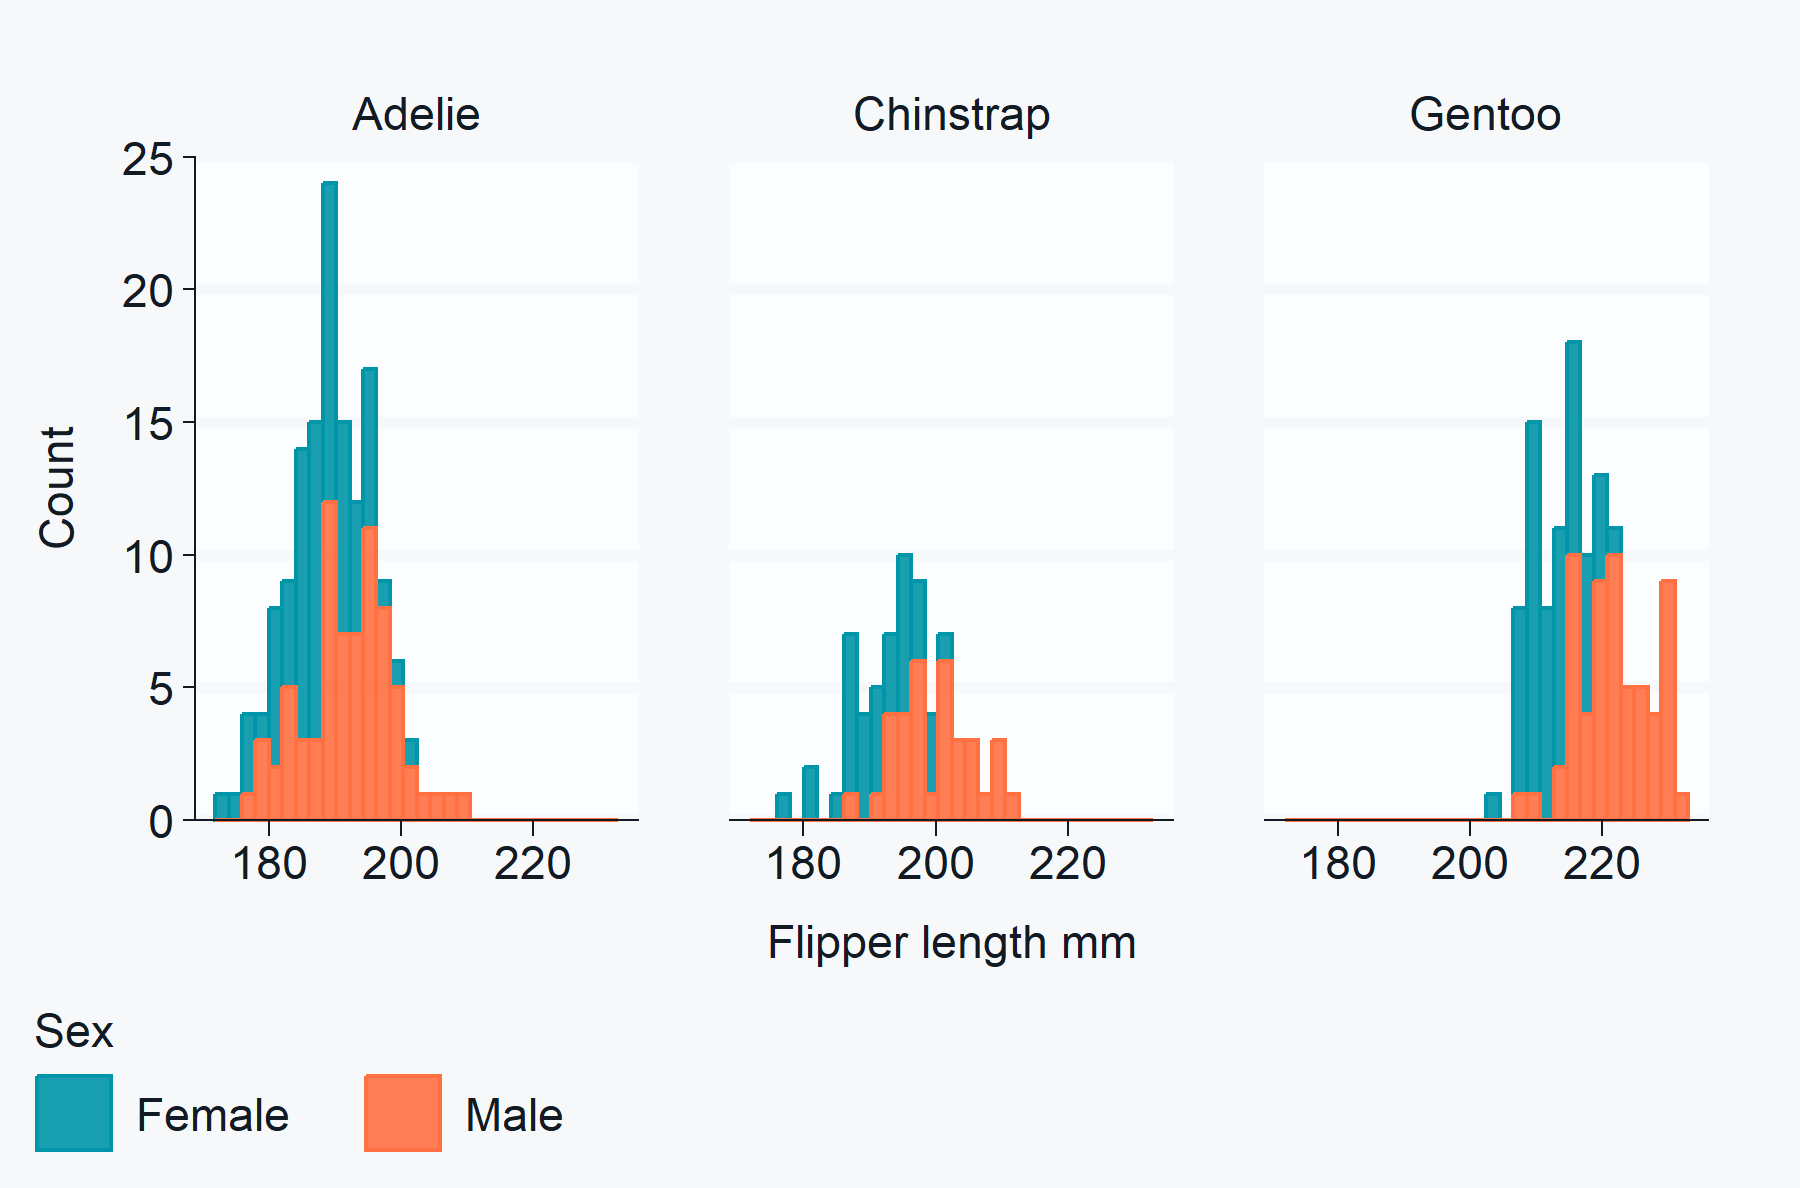
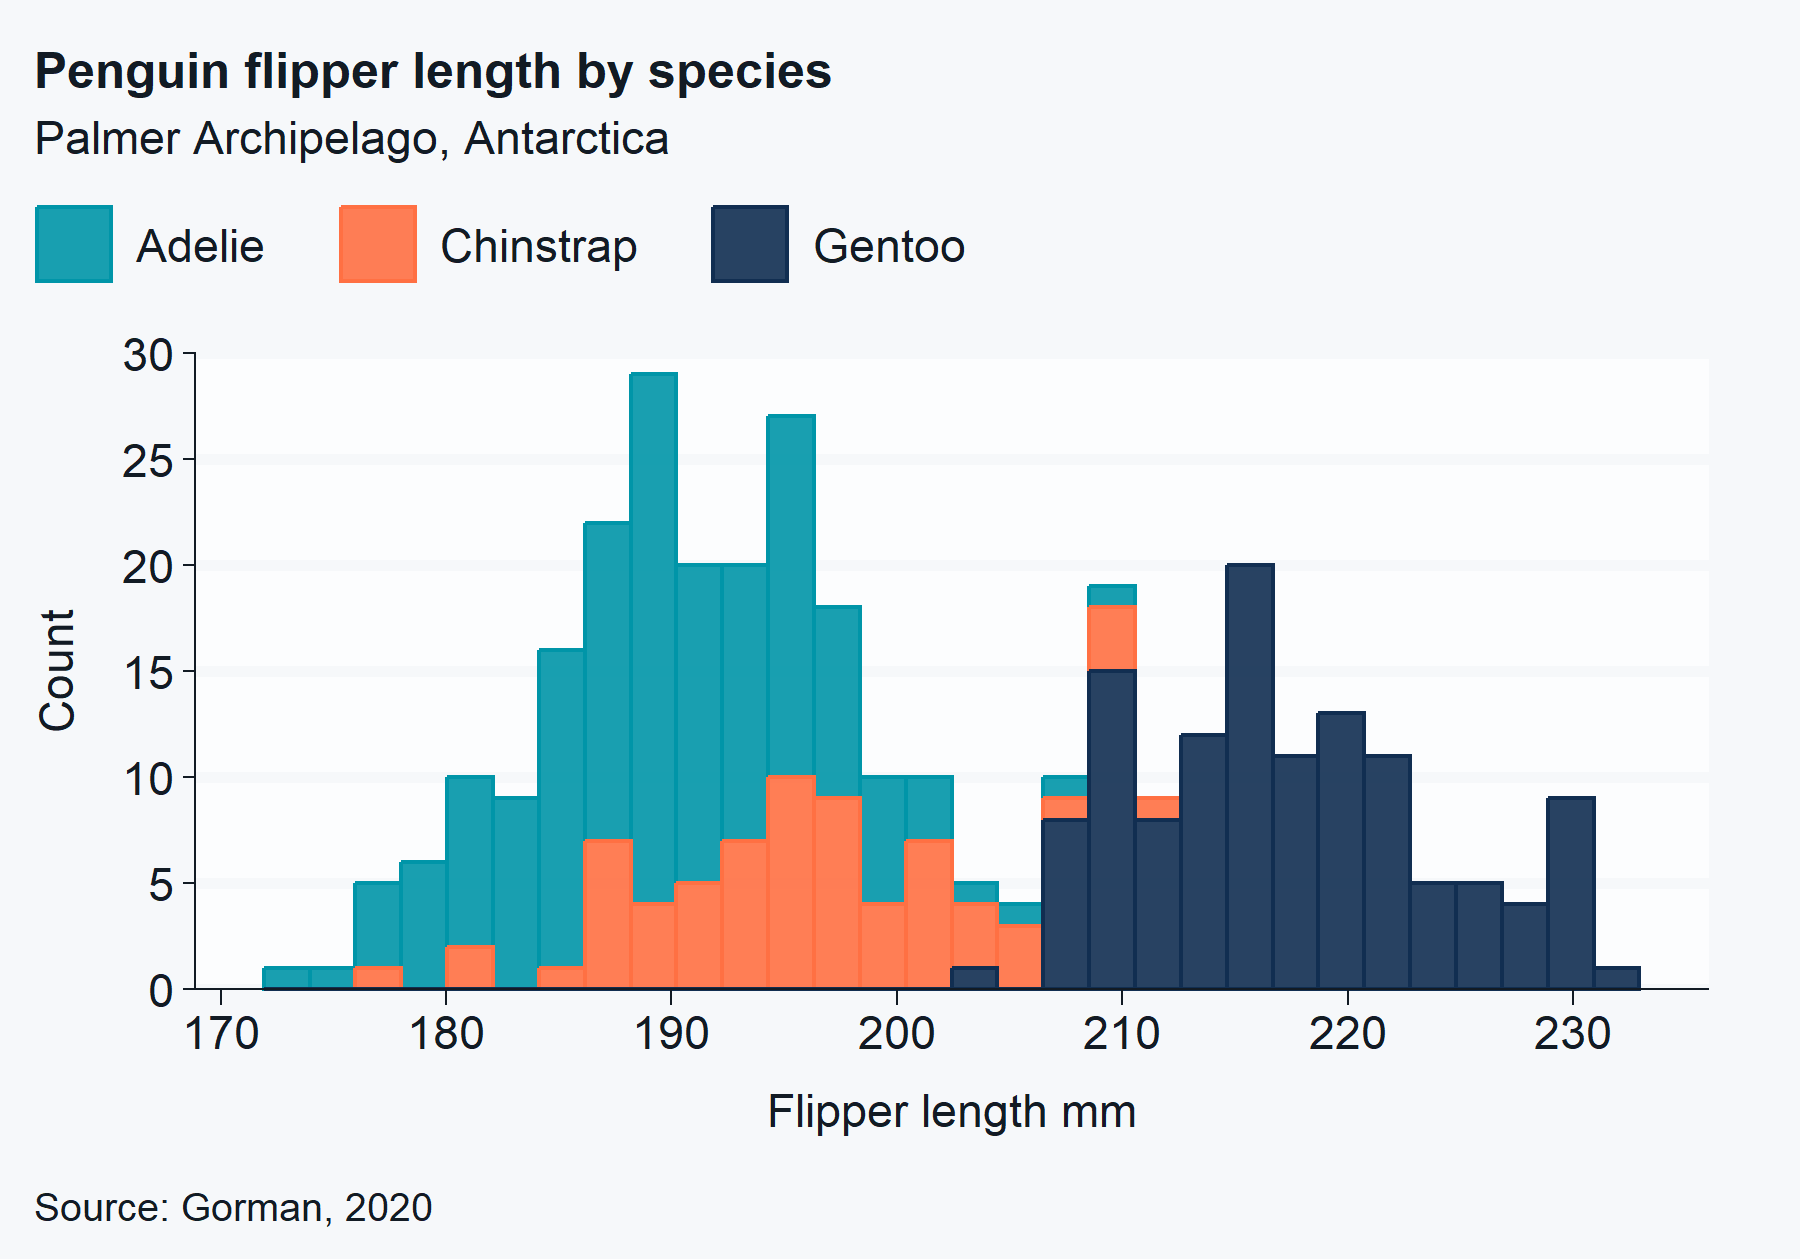
Update example

diff --git a/README.md b/README.md
@@ -44,13 +44,14 @@ library(dplyr)
 library(palmerpenguins)
 
 penguins |>
-  tidyr::drop_na(sex) |> 
-  mutate(sex = stringr::str_to_sentence(sex)) |>
   gg_histogram(
     x = flipper_length_mm,
-    col = sex,
-    facet = species,
-    theme = grey_mode_b(),
+    col = species,
+    title = "Penguin flipper length by species",
+    subtitle = "Palmer Archipelago, Antarctica",
+    caption = "Source: Gorman, 2020", 
+    col_title = "",
+    theme = grey_mode_t(),
   )
 ```
 
